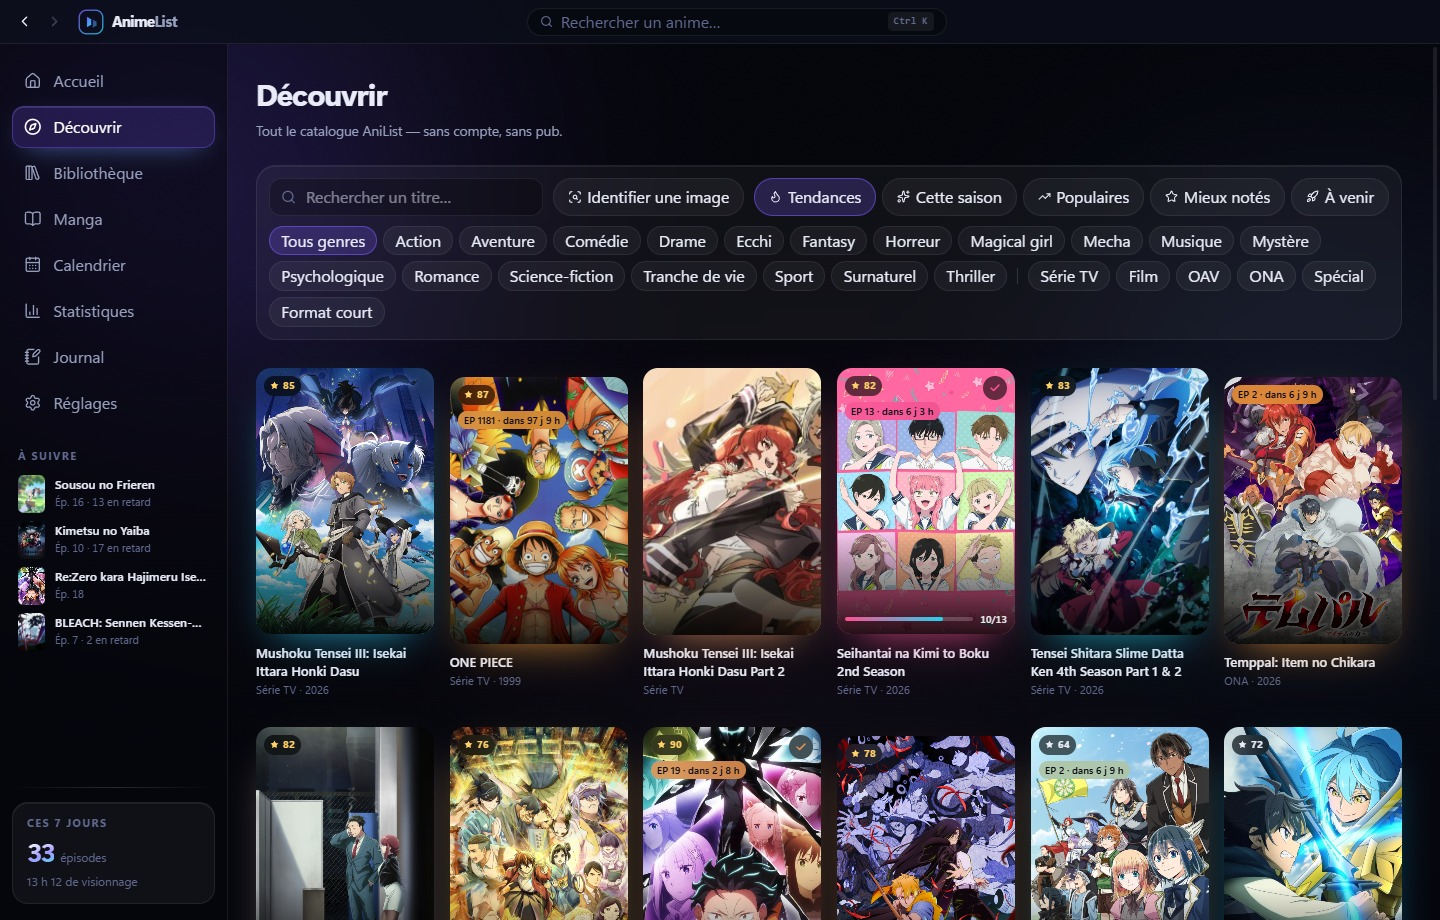
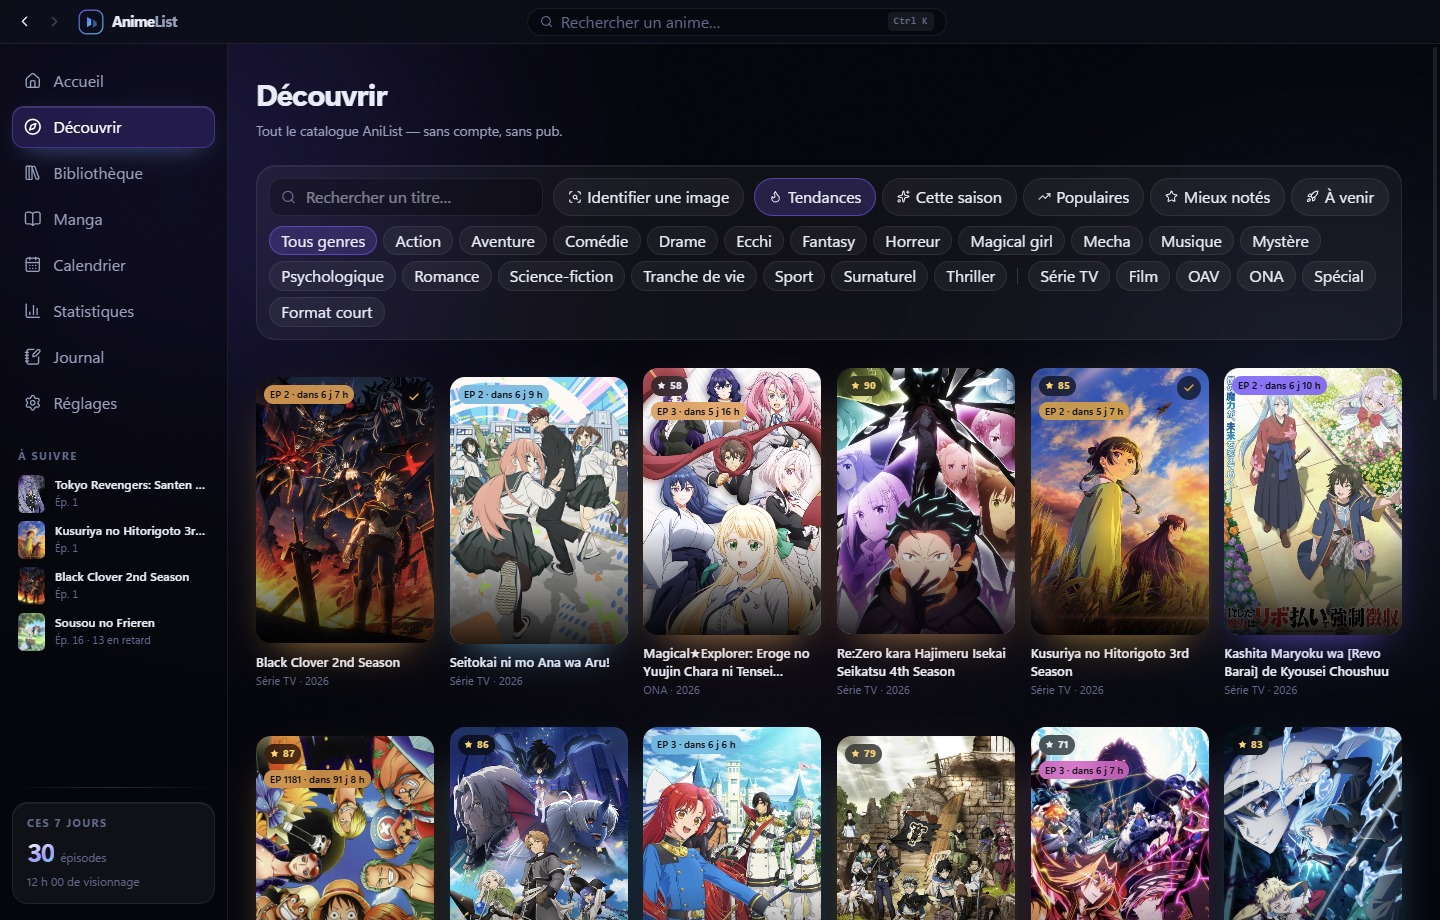
README : captures refaites, dix nouvelles dans la galerie
Découvrir, saison, calendrier, journal, manga, fiche manga, lecture,
badges et réglages rejoignent le tableau sous l'accueil.

Claude-Session: https://claude.ai/code/session_01LjdPA1XKZVa7nisKvYBCeU

diff --git a/README.md b/README.md
@@ -26,6 +26,26 @@ Auteur : **Zaidal**
 <td><a href="docs/screenshots/bibliotheque.jpg"><img src="docs/screenshots/bibliotheque.jpg" alt="Bibliothèque"></a><br><sub><b>Bibliothèque.</b> Cinq statuts, favoris, filtres, listes personnalisées, actions groupées.</sub></td>
 <td><a href="docs/screenshots/statistiques.jpg"><img src="docs/screenshots/statistiques.jpg" alt="Statistiques"></a><br><sub><b>Statistiques.</b> Temps total, séries de jours, heatmap, top genres et studios, cent badges.</sub></td>
 </tr>
+<tr>
+<td><a href="docs/screenshots/decouvrir.jpg"><img src="docs/screenshots/decouvrir.jpg" alt="Découvrir"></a><br><sub><b>Découvrir.</b> Tout le catalogue AniList : tendances, saison, populaires, à venir, filtres par genre et format. Une image suffit à retrouver la série.</sub></td>
+<td><a href="docs/screenshots/saison.jpg"><img src="docs/screenshots/saison.jpg" alt="Saison en cours"></a><br><sub><b>Saison.</b> Les nouveautés à trier d'un clic : « Je regarde », « Plus tard » ou écartée.</sub></td>
+</tr>
+<tr>
+<td><a href="docs/screenshots/calendrier.jpg"><img src="docs/screenshots/calendrier.jpg" alt="Calendrier"></a><br><sub><b>Calendrier.</b> Les sorties de la semaine, pour ta liste ou tout le catalogue, à l'heure de diffusion.</sub></td>
+<td><a href="docs/screenshots/journal.jpg"><img src="docs/screenshots/journal.jpg" alt="Journal"></a><br><sub><b>Journal.</b> Chaque épisode regardé, jour par jour : ressentis, notes, revisionnages, épisodes à revoir. Recherche et export.</sub></td>
+</tr>
+<tr>
+<td><a href="docs/screenshots/manga.jpg"><img src="docs/screenshots/manga.jpg" alt="Manga"></a><br><sub><b>Manga.</b> Ce que tu lis, chapitre par chapitre, et le catalogue pour trouver la suite d'une série. Manga, manhwa et manhua distingués.</sub></td>
+<td><a href="docs/screenshots/manga-fiche.jpg"><img src="docs/screenshots/manga-fiche.jpg" alt="Fiche d'un manga"></a><br><sub><b>Fiche manga.</b> Statut, chapitres et tomes, notes. « +1 » compte une lecture du jour.</sub></td>
+</tr>
+<tr>
+<td><a href="docs/screenshots/lecture.jpg"><img src="docs/screenshots/lecture.jpg" alt="Statistiques de lecture"></a><br><sub><b>Lecture.</b> Chapitres lus, mangas en cours et finis, chapitres par mois.</sub></td>
+<td><a href="docs/screenshots/badges.jpg"><img src="docs/screenshots/badges.jpg" alt="Badges"></a><br><sub><b>Badges.</b> Cent badges par catégorie, avec la progression vers les suivants.</sub></td>
+</tr>
+<tr>
+<td><a href="docs/screenshots/reglages.jpg"><img src="docs/screenshots/reglages.jpg" alt="Réglages"></a><br><sub><b>Réglages.</b> Quinze thèmes et cinq expériences qui refont l'app entière. Chaque réglage se cherche.</sub></td>
+<td><a href="docs/screenshots/reglages-bas.jpg"><img src="docs/screenshots/reglages-bas.jpg" alt="Réglages de lecture"></a><br><sub><b>Automatismes.</b> Cocher l'épisode fini, enchaîner le suivant, passer les génériques : chacun se coupe.</sub></td>
+</tr>
 </table>
 
 <sub>Les captures sont générées sur une bibliothèque de démonstration : les fiches viennent du
